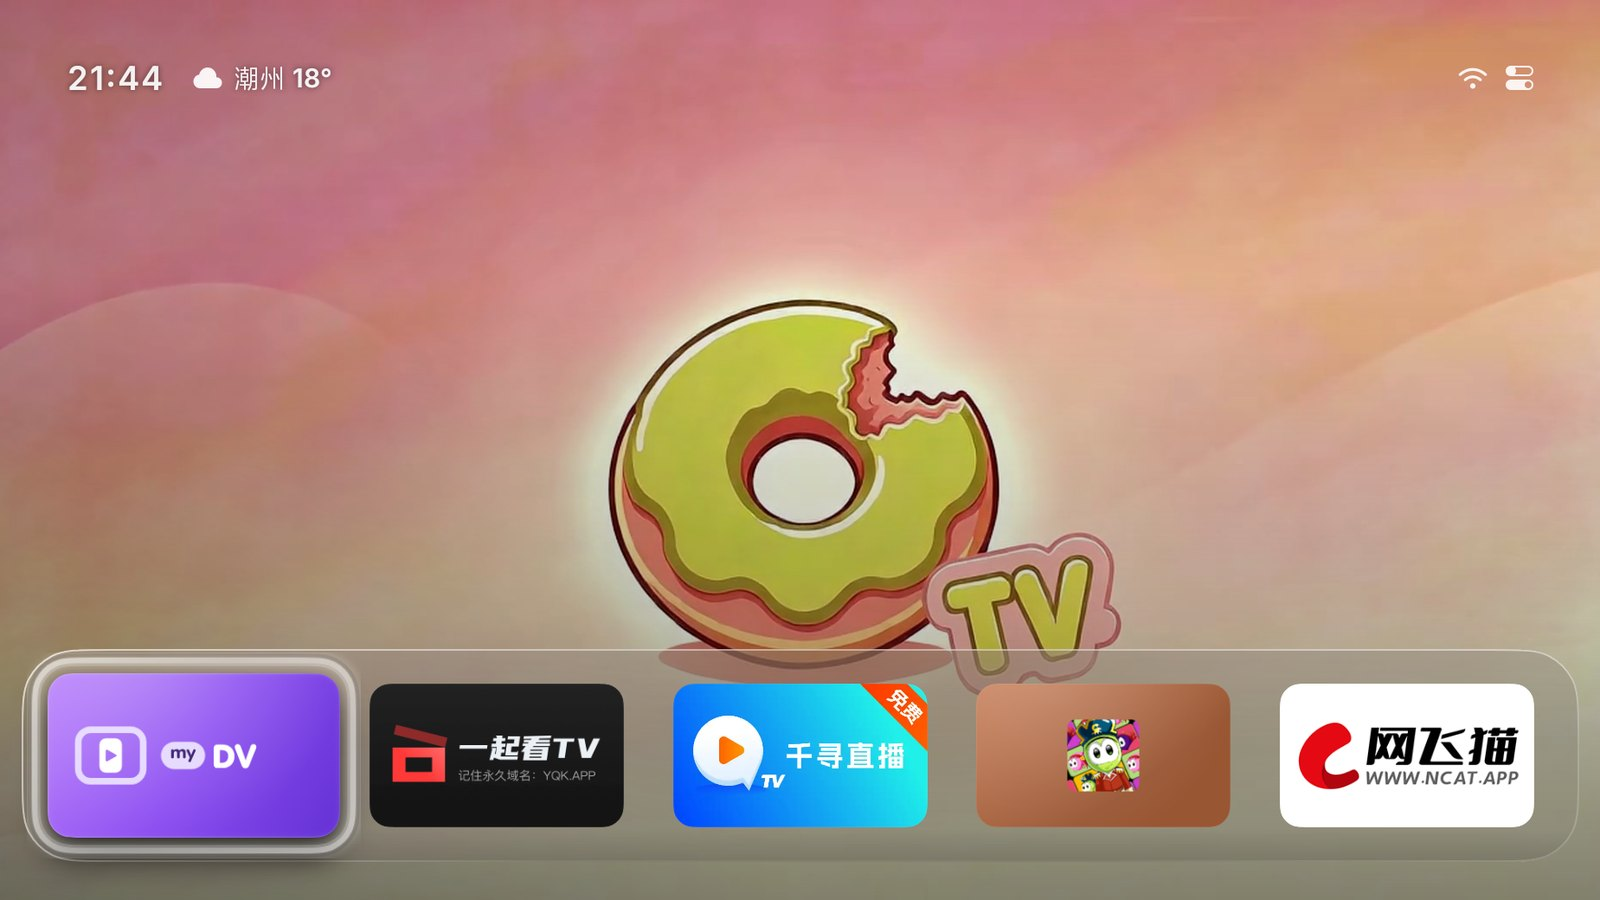
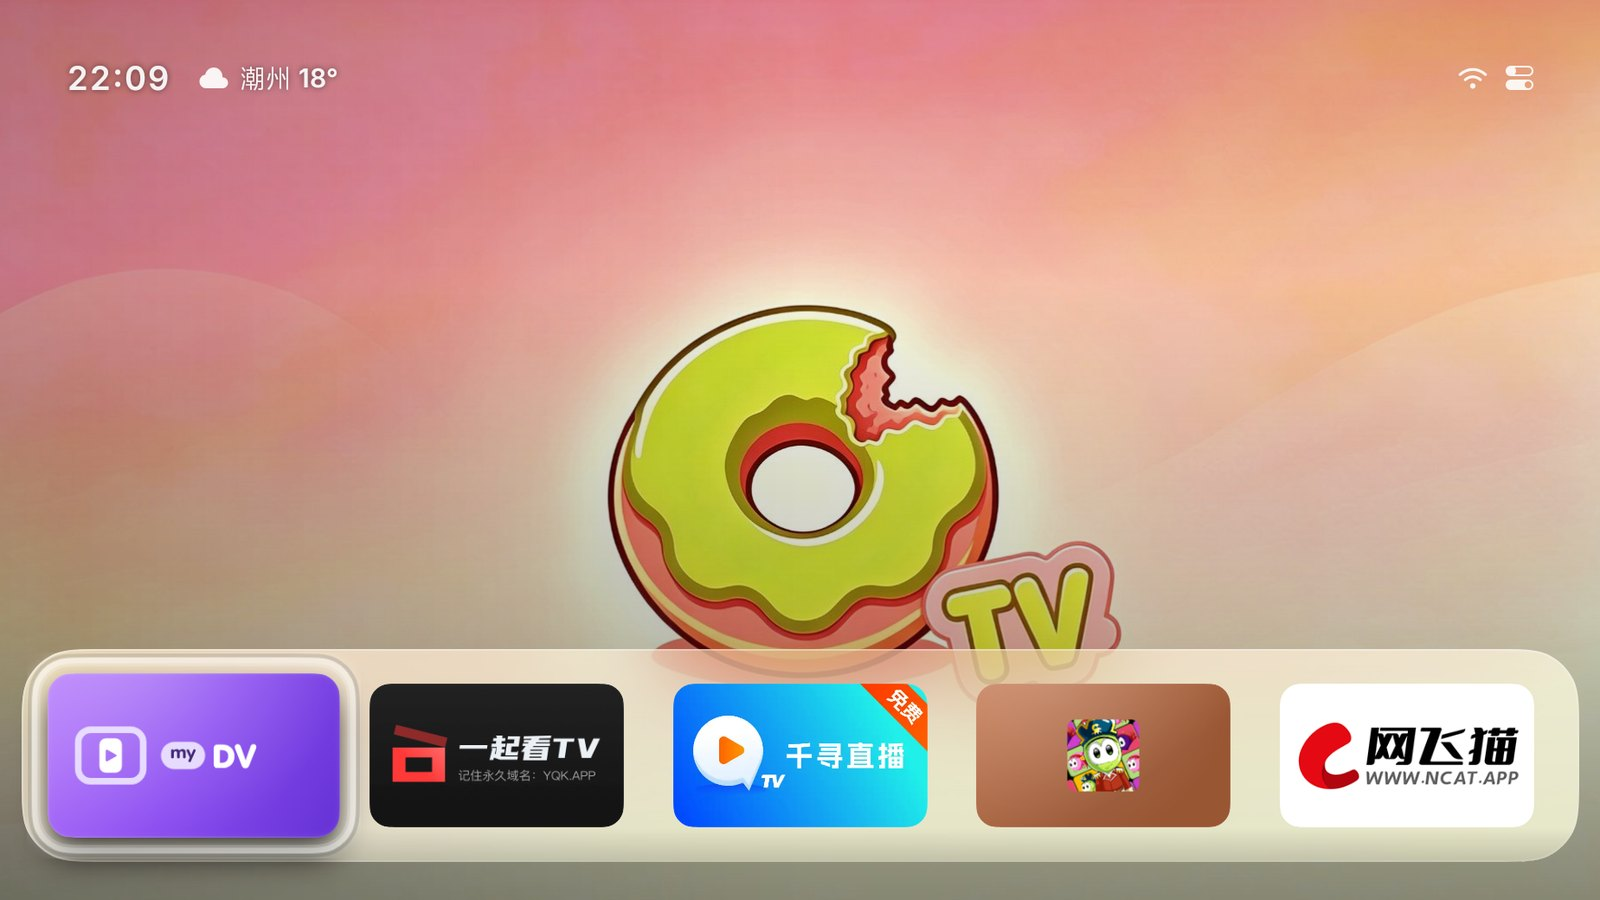
主图改用静态甜甜圈壁纸的桌面截图
动态壁纸在播放时 screencap 抓不到（这台电视视频平面 PixelCopy 读不到，出来全黑），
改用 builtin:donut 静态壁纸的实拍桌面，构图一致且能稳定截；alt 文案去掉「动态」

diff --git a/site/en/index.html b/site/en/index.html
@@ -16,7 +16,7 @@
 <meta name="description" content="An open-source, tvOS-style home screen for Android TV. No ads, no recommendation feeds. Just your apps, your wallpaper and Apple TV's aerial screensavers. Built for Xiaomi, TCL, Skyworth, Sony and other TVs and boxes sold in China.">
 <meta property="og:title" content="Donut TV · A calm home screen for Android TV">
 <meta property="og:description" content="An open-source, tvOS-style home screen for Android TV. No ads, and it stays your home screen.">
-<meta property="og:image" content="../img/home.jpg?v=1666">
+<meta property="og:image" content="../img/home.jpg?v=1667">
 <meta name="theme-color" content="#000000">
 <link rel="icon" href="../favicon.svg" type="image/svg+xml">
 <link rel="stylesheet" href="../style.css?v=12">
@@ -52,7 +52,7 @@
       <div class="glow"></div>
       <div class="screen compare" id="compare" role="slider" tabindex="0" aria-label="The TV's stock home screen compared with Donut TV. Move left or right to compare." aria-valuemin="0" aria-valuemax="100" aria-valuenow="0">
         <img class="before" src="../img/stock-xiaomi.jpg?v=3" alt="The TV's stock home screen, covered in show recommendations and membership badges" width="1600" height="900">
-        <div class="after"><img src="../img/home.jpg?v=1666" alt="Donut TV's home screen with the donut wallpaper it ships with" width="1600" height="900"></div>
+        <div class="after"><img src="../img/home.jpg?v=1667" alt="Donut TV's home screen with the donut wallpaper it ships with" width="1600" height="900"></div>
         <div class="divider" aria-hidden="true"><span class="knob"><svg width="20" height="20" viewBox="0 0 24 24" fill="none" stroke="currentColor" stroke-width="2.4" stroke-linecap="round" stroke-linejoin="round"><path d="M9 6l-6 6 6 6M15 6l6 6-6 6"/></svg></span></div>
       </div>
       <div class="stand"></div>

diff --git a/site/index.html b/site/index.html
@@ -16,7 +16,7 @@
 <meta name="description" content="参照 tvOS 设计的开源 Android TV 桌面。没有广告，没有推荐流，只有你的 App、你的壁纸和航拍屏保。支持小米、TCL、创维、索尼等国产电视和盒子，开机自动接管。">
 <meta property="og:title" content="Donut TV · 给国产电视的一块干净桌面">
 <meta property="og:description" content="参照 tvOS 设计的开源电视桌面，没有广告，开机自动接管。">
-<meta property="og:image" content="img/home.jpg?v=1666">
+<meta property="og:image" content="img/home.jpg?v=1667">
 <meta name="theme-color" content="#000000">
 <link rel="icon" href="favicon.svg" type="image/svg+xml">
 <link rel="stylesheet" href="style.css?v=12">
@@ -53,7 +53,7 @@
       <div class="glow"></div>
       <div class="screen compare" id="compare" role="slider" tabindex="0" aria-label="电视自带的桌面和 Donut TV 的对比，左右移动查看" aria-valuemin="0" aria-valuemax="100" aria-valuenow="0">
         <img class="before" src="img/stock-xiaomi.jpg?v=3" alt="电视自带的桌面：满屏剧集推荐、会员和限免角标" width="1600" height="900">
-        <div class="after"><img src="img/home.jpg?v=1666" alt="Donut TV 首页：软件自带的甜甜圈动态壁纸，玻璃底板上是常用 App" width="1600" height="900"></div>
+        <div class="after"><img src="img/home.jpg?v=1667" alt="Donut TV 首页：软件自带的甜甜圈壁纸，玻璃底板上是常用 App" width="1600" height="900"></div>
         <div class="divider" aria-hidden="true"><span class="knob"><svg width="20" height="20" viewBox="0 0 24 24" fill="none" stroke="currentColor" stroke-width="2.4" stroke-linecap="round" stroke-linejoin="round"><path d="M9 6l-6 6 6 6M15 6l6 6-6 6"/></svg></span></div>
       </div>
       <div class="stand"></div>

diff --git a/README.md b/README.md
@@ -17,14 +17,14 @@
 
 | 电视自带的桌面 | 换上 Donut TV 之后 |
 |:---:|:---:|
-| <img src="site/img/stock-xiaomi.jpg" alt="电视自带的桌面：满屏剧集推荐、会员和限免角标"> | <img src="site/img/home.jpg" alt="Donut TV 首页：软件自带的甜甜圈动态壁纸"> |
+| <img src="site/img/stock-xiaomi.jpg" alt="电视自带的桌面：满屏剧集推荐、会员和限免角标"> | <img src="site/img/home.jpg" alt="Donut TV 首页：软件自带的甜甜圈壁纸"> |
 
 </div>
 
 ## 亮点
 
 <p align="center">
-  <img src="site/img/home.jpg" width="100%" alt="Donut TV 首页：软件自带的甜甜圈动态壁纸，玻璃底板上是常用 App">
+  <img src="site/img/home.jpg" width="100%" alt="Donut TV 首页：软件自带的甜甜圈壁纸，玻璃底板上是常用 App">
 </p>
 
 ### 液态玻璃
